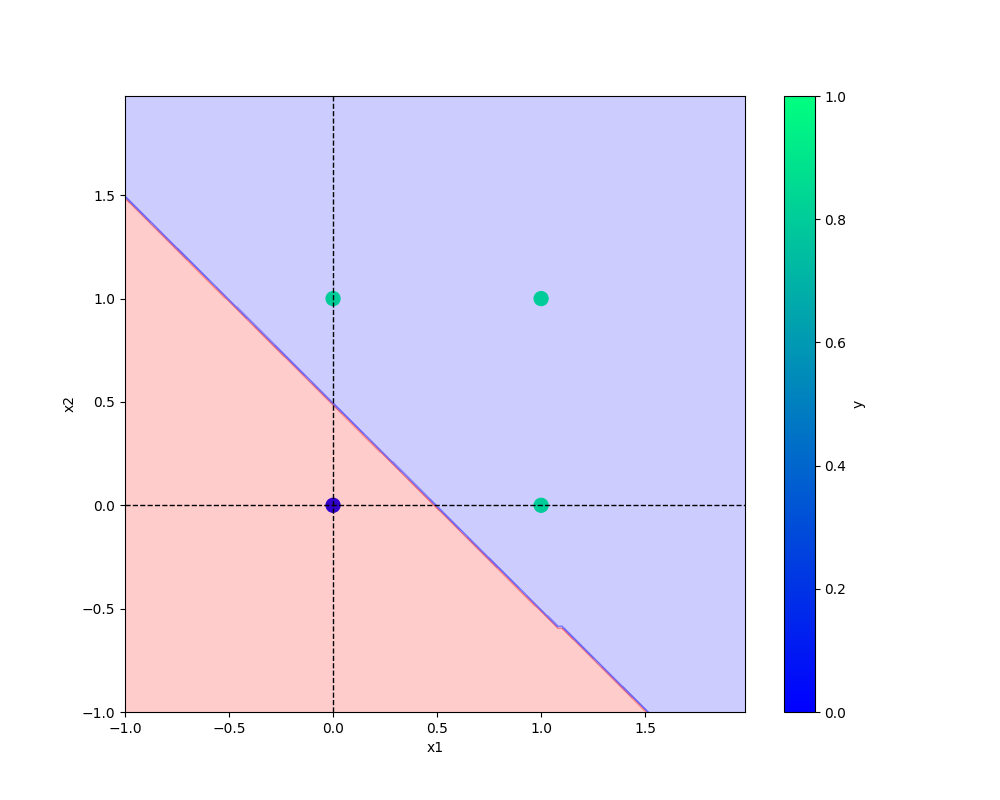
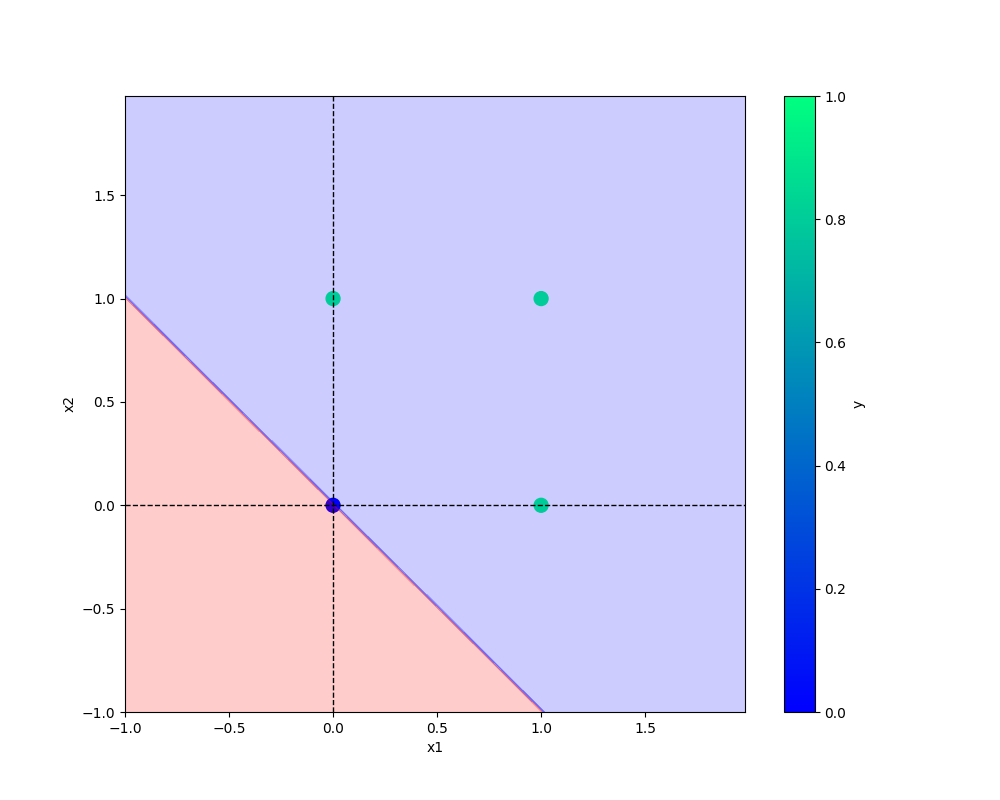
NEWor.py tested with oneNeuron created pkg

Changed region(s): [[0.124, 0.25, 0.651, 0.9062]]

diff --git a/NEWor.py b/NEWor.py
@@ -1,0 +1,39 @@
+from oneNeuron.perceptron import Perceptron
+# from utils.model import Perceptron
+from utils.common_utils import prepare_data, save_plot, save_model
+import pandas as pd
+import logging
+import os
+
+logging_str = "[%(asctime)s - %(levelname)s - %(module)s] %(message)s"
+logs_dir = "logs"
+os.makedirs(logs_dir, exist_ok=True)
+logging.basicConfig(filename=os.path.join(logs_dir,"running_logs.log"), level=logging.INFO, format=logging_str, filemode="a")
+
+
+def main(data, modelname, plotfilename, eta, epochs):
+    df = pd.DataFrame(data)
+    logging.info(f"input dataframe : \n {df}")
+
+    X,y = prepare_data(df)
+    model = Perceptron(eta, epochs)
+    model.fit(X,y)
+    _ = model.total_loss()
+    save_model(model, modelname)
+    save_plot(df , plotfilename, model)
+
+if __name__ == '__main__':
+    OR = {
+        "x1":[0,0,1,1],
+        "x2":[0,1,0,1],
+        "y":[0,1,1,1]   
+    }
+    ETA = 0.03
+    EPOCHS = 10
+    try:
+        logging.info(">>>>> started the model training >>>>>")
+        main(data=OR, modelname="or.model", plotfilename="NEWor.png", eta = ETA, epochs=EPOCHS) 
+        logging.info("<<<<< model training done successfully <<<<< \n")
+    except Exception as e:
+        logging.exception(e)
+        raise e
